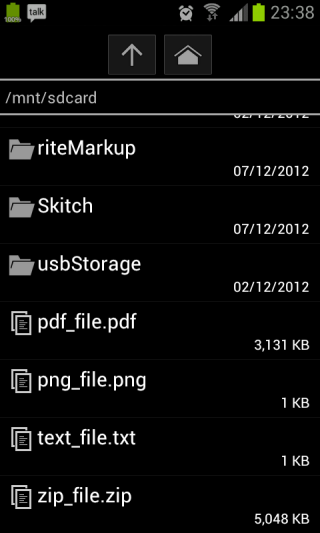
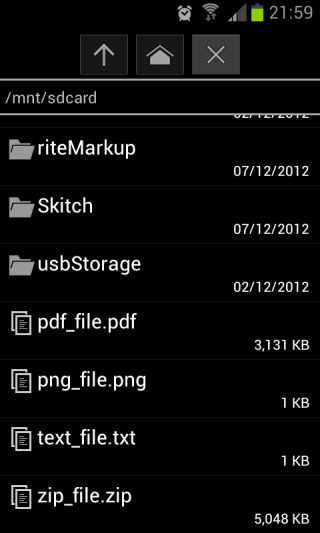
Add close button.

Changed region(s): [[0.25, 0.0, 1.0, 0.1501], [0.0, 0.0, 0.1562, 0.06]]

diff --git a/src/com/github/lecho/filechooser/FileChooserActivity.java b/src/com/github/lecho/filechooser/FileChooserActivity.java
@@ -71,6 +71,7 @@ public class FileChooserActivity extends Activity {
 	private TextView mPathText;
 	private ImageButton mBackBtn;
 	private ImageButton mHomeBtn;
+	private ImageButton mCloseBtn;
 	private ViewSwitcher mViewSwitcher;
 
 	@Override
@@ -93,6 +94,8 @@ public class FileChooserActivity extends Activity {
 			}
 		}
 
+		mCloseBtn = (ImageButton) findViewById(R.id.close_button);
+		mCloseBtn.setOnClickListener(new CloseListener());
 		mBackBtn = (ImageButton) findViewById(R.id.back_button);
 		mBackBtn.setOnClickListener(new BackListener());
 		mHomeBtn = (ImageButton) findViewById(R.id.home_button);
@@ -256,6 +259,23 @@ public class FileChooserActivity extends Activity {
 		@Override
 		public void onClick(View v) {
 			home();
+
+		}
+
+	}
+
+	/**
+	 * Called when user click close button.
+	 * 
+	 * @author lecho
+	 * 
+	 */
+	private class CloseListener implements View.OnClickListener {
+
+		@Override
+		public void onClick(View v) {
+			setResult(Activity.RESULT_CANCELED);
+			finish();
 
 		}
 
